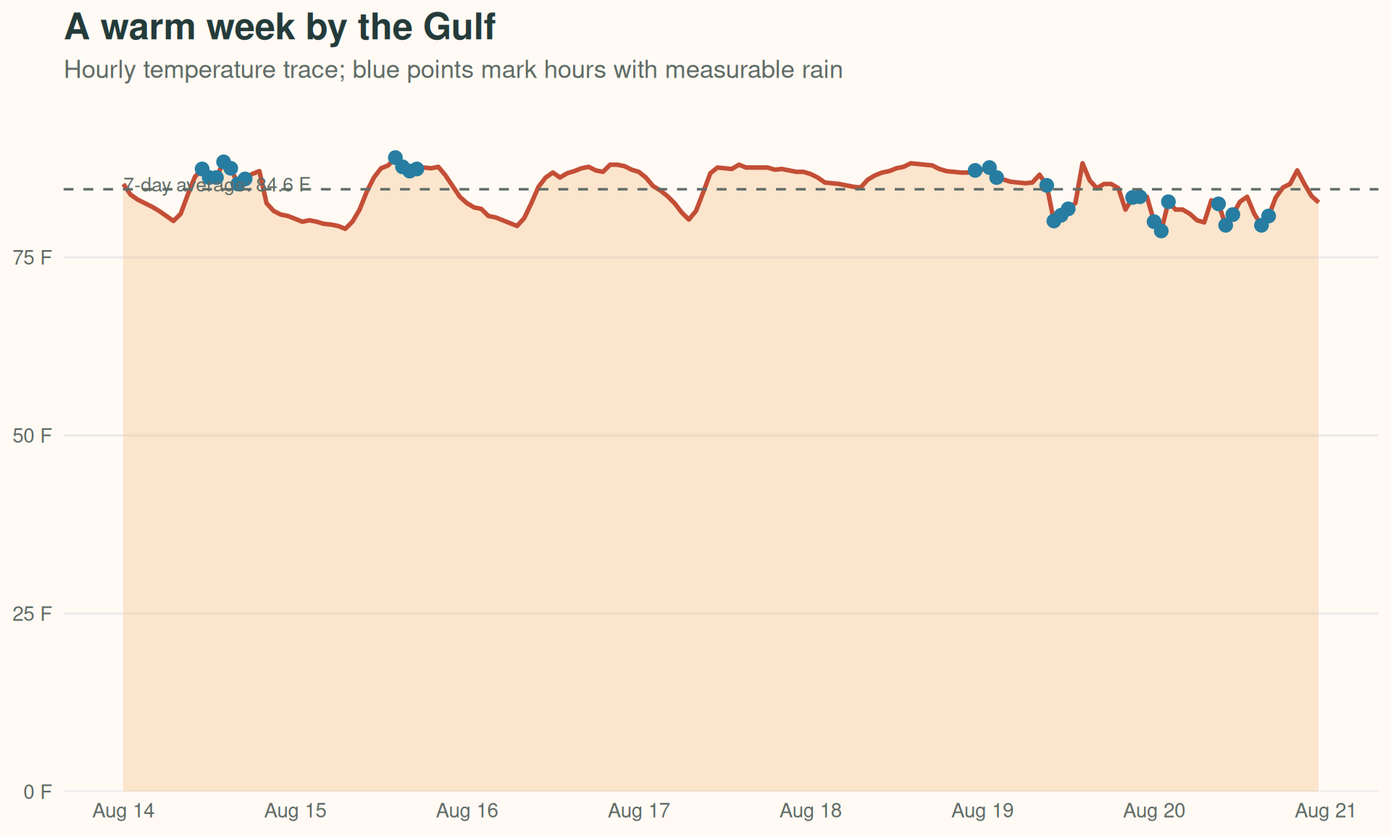
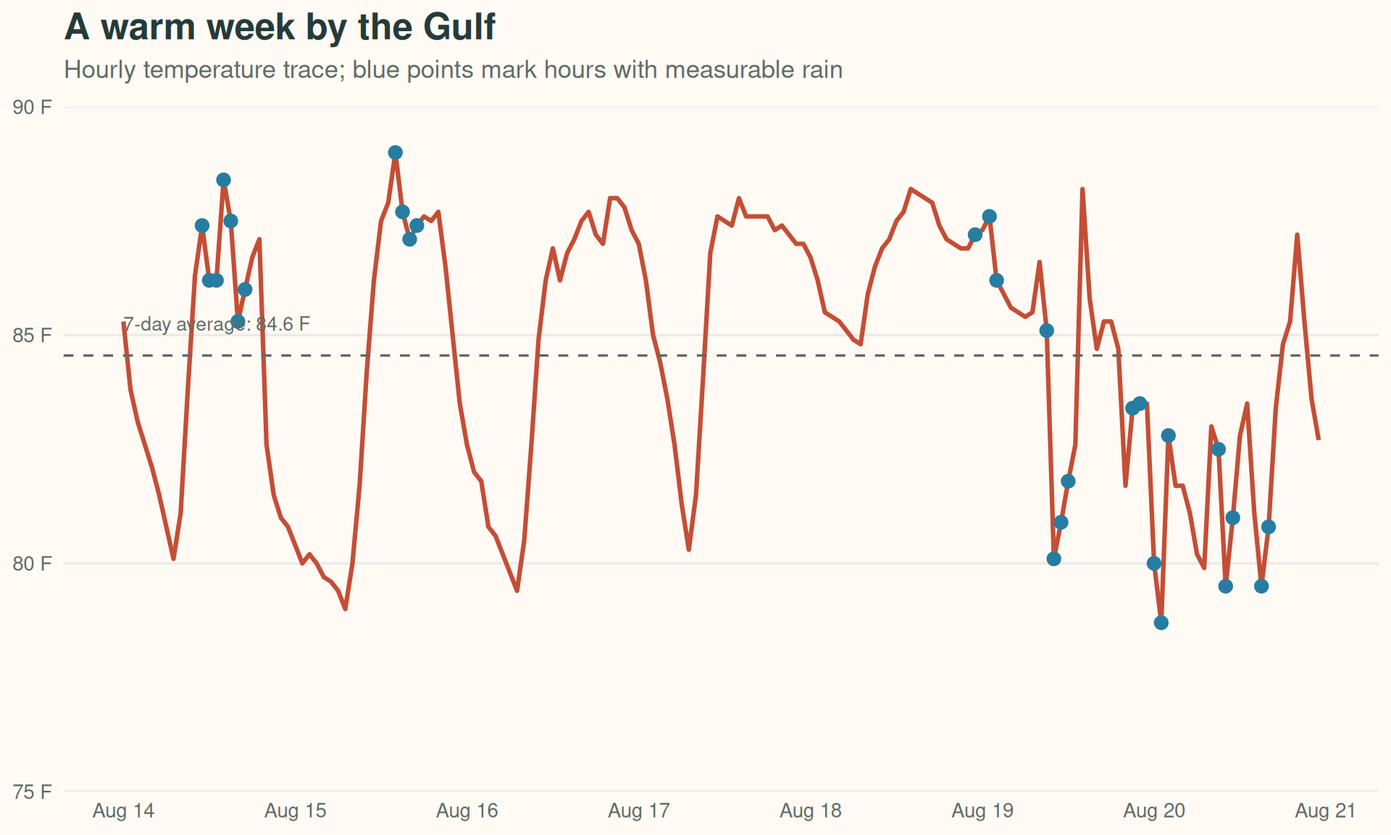
Built site for gh-pages

diff --git a/index.html b/index.html
@@ -122,34 +122,67 @@ pre > code.sourceCode > span > a:first-child::before { text-decoration: underlin
 <div class="code-copy-outer-scaffold"><div class="sourceCode cell-code" id="cb1"><pre class="sourceCode r code-with-copy"><code class="sourceCode r"><span id="cb1-1"><a href="#cb1-1" aria-hidden="true" tabindex="-1"></a><span class="fu">ggplot</span>(weather, <span class="fu">aes</span>(<span class="at">x =</span> time, <span class="at">y =</span> temperature_f)) <span class="sc">+</span></span>
 <span id="cb1-2"><a href="#cb1-2" aria-hidden="true" tabindex="-1"></a>  <span class="fu">geom_area</span>(<span class="at">fill =</span> <span class="st">"#f6b26b"</span>, <span class="at">alpha =</span> <span class="fl">0.28</span>) <span class="sc">+</span></span>
 <span id="cb1-3"><a href="#cb1-3" aria-hidden="true" tabindex="-1"></a>  <span class="fu">geom_line</span>(<span class="at">color =</span> <span class="st">"#c44e36"</span>, <span class="at">linewidth =</span> <span class="fl">1.1</span>) <span class="sc">+</span></span>
-<span id="cb1-4"><a href="#cb1-4" aria-hidden="true" tabindex="-1"></a>  <span class="fu">geom_point</span>(<span class="at">data =</span> <span class="fu">subset</span>(weather, rain), <span class="at">color =</span> <span class="st">"#277da1"</span>, <span class="at">size =</span> <span class="fl">2.8</span>) <span class="sc">+</span></span>
-<span id="cb1-5"><a href="#cb1-5" aria-hidden="true" tabindex="-1"></a>  <span class="fu">geom_hline</span>(<span class="at">yintercept =</span> <span class="fu">mean</span>(weather<span class="sc">$</span>temperature_f),</span>
-<span id="cb1-6"><a href="#cb1-6" aria-hidden="true" tabindex="-1"></a>             <span class="at">linetype =</span> <span class="st">"dashed"</span>, <span class="at">color =</span> <span class="st">"#5f6b66"</span>, <span class="at">linewidth =</span> <span class="fl">0.6</span>) <span class="sc">+</span></span>
-<span id="cb1-7"><a href="#cb1-7" aria-hidden="true" tabindex="-1"></a>  <span class="fu">annotate</span>(<span class="st">"text"</span>, <span class="at">x =</span> <span class="fu">min</span>(weather<span class="sc">$</span>time), <span class="at">y =</span> <span class="fu">mean</span>(weather<span class="sc">$</span>temperature_f) <span class="sc">+</span> <span class="fl">0.7</span>,</span>
-<span id="cb1-8"><a href="#cb1-8" aria-hidden="true" tabindex="-1"></a>           <span class="at">label =</span> <span class="fu">paste0</span>(<span class="st">"7-day average: "</span>, <span class="fu">round</span>(<span class="fu">mean</span>(weather<span class="sc">$</span>temperature_f), <span class="dv">1</span>), <span class="st">" F"</span>),</span>
-<span id="cb1-9"><a href="#cb1-9" aria-hidden="true" tabindex="-1"></a>           <span class="at">hjust =</span> <span class="dv">0</span>, <span class="at">color =</span> <span class="st">"#5f6b66"</span>, <span class="at">size =</span> <span class="fl">3.5</span>) <span class="sc">+</span></span>
-<span id="cb1-10"><a href="#cb1-10" aria-hidden="true" tabindex="-1"></a>  <span class="fu">scale_x_datetime</span>(<span class="at">date_breaks =</span> <span class="st">"1 day"</span>, <span class="at">date_labels =</span> <span class="st">"%b %d"</span>) <span class="sc">+</span></span>
-<span id="cb1-11"><a href="#cb1-11" aria-hidden="true" tabindex="-1"></a>  <span class="fu">scale_y_continuous</span>(<span class="at">labels =</span> \(x) <span class="fu">paste0</span>(x, <span class="st">" F"</span>),</span>
-<span id="cb1-12"><a href="#cb1-12" aria-hidden="true" tabindex="-1"></a>                     <span class="at">expand =</span> <span class="fu">expansion</span>(<span class="at">mult =</span> <span class="fu">c</span>(<span class="dv">0</span>, <span class="fl">0.08</span>))) <span class="sc">+</span></span>
-<span id="cb1-13"><a href="#cb1-13" aria-hidden="true" tabindex="-1"></a>  <span class="fu">labs</span>(<span class="at">x =</span> <span class="cn">NULL</span>, <span class="at">y =</span> <span class="cn">NULL</span>,</span>
-<span id="cb1-14"><a href="#cb1-14" aria-hidden="true" tabindex="-1"></a>       <span class="at">title =</span> <span class="st">"A warm week by the Gulf"</span>,</span>
-<span id="cb1-15"><a href="#cb1-15" aria-hidden="true" tabindex="-1"></a>       <span class="at">subtitle =</span> <span class="st">"Hourly temperature trace; blue points mark hours with measurable rain"</span>) <span class="sc">+</span></span>
-<span id="cb1-16"><a href="#cb1-16" aria-hidden="true" tabindex="-1"></a>  <span class="fu">theme_minimal</span>(<span class="at">base_size =</span> <span class="dv">13</span>) <span class="sc">+</span></span>
-<span id="cb1-17"><a href="#cb1-17" aria-hidden="true" tabindex="-1"></a>  <span class="fu">theme</span>(</span>
-<span id="cb1-18"><a href="#cb1-18" aria-hidden="true" tabindex="-1"></a>    <span class="at">plot.title =</span> <span class="fu">element_text</span>(<span class="at">face =</span> <span class="st">"bold"</span>, <span class="at">size =</span> <span class="dv">19</span>, <span class="at">color =</span> <span class="st">"#243b3a"</span>),</span>
-<span id="cb1-19"><a href="#cb1-19" aria-hidden="true" tabindex="-1"></a>    <span class="at">plot.subtitle =</span> <span class="fu">element_text</span>(<span class="at">color =</span> <span class="st">"#5f6b66"</span>, <span class="at">margin =</span> <span class="fu">margin</span>(<span class="at">b =</span> <span class="dv">12</span>)),</span>
-<span id="cb1-20"><a href="#cb1-20" aria-hidden="true" tabindex="-1"></a>    <span class="at">panel.grid.minor =</span> <span class="fu">element_blank</span>(),</span>
-<span id="cb1-21"><a href="#cb1-21" aria-hidden="true" tabindex="-1"></a>    <span class="at">panel.grid.major.x =</span> <span class="fu">element_blank</span>(),</span>
-<span id="cb1-22"><a href="#cb1-22" aria-hidden="true" tabindex="-1"></a>    <span class="at">axis.text =</span> <span class="fu">element_text</span>(<span class="at">color =</span> <span class="st">"#5f6b66"</span>),</span>
-<span id="cb1-23"><a href="#cb1-23" aria-hidden="true" tabindex="-1"></a>    <span class="at">plot.background =</span> <span class="fu">element_rect</span>(<span class="at">fill =</span> <span class="st">"#fffaf4"</span>, <span class="at">color =</span> <span class="cn">NA</span>),</span>
-<span id="cb1-24"><a href="#cb1-24" aria-hidden="true" tabindex="-1"></a>    <span class="at">panel.background =</span> <span class="fu">element_rect</span>(<span class="at">fill =</span> <span class="st">"#fffaf4"</span>, <span class="at">color =</span> <span class="cn">NA</span>)</span>
-<span id="cb1-25"><a href="#cb1-25" aria-hidden="true" tabindex="-1"></a>  )</span></code></pre></div><button title="Copy to Clipboard" class="code-copy-button"><i class="bi"></i></button></div>
+<span id="cb1-4"><a href="#cb1-4" aria-hidden="true" tabindex="-1"></a>  <span class="fu">geom_hline</span>(<span class="at">yintercept =</span> <span class="fu">mean</span>(weather<span class="sc">$</span>temperature_f),</span>
+<span id="cb1-5"><a href="#cb1-5" aria-hidden="true" tabindex="-1"></a>             <span class="at">linetype =</span> <span class="st">"dashed"</span>, <span class="at">color =</span> <span class="st">"#5f6b66"</span>, <span class="at">linewidth =</span> <span class="fl">0.6</span>) <span class="sc">+</span></span>
+<span id="cb1-6"><a href="#cb1-6" aria-hidden="true" tabindex="-1"></a>  <span class="fu">annotate</span>(<span class="st">"text"</span>, <span class="at">x =</span> <span class="fu">min</span>(weather<span class="sc">$</span>time), <span class="at">y =</span> <span class="fu">mean</span>(weather<span class="sc">$</span>temperature_f) <span class="sc">+</span> <span class="fl">0.7</span>,</span>
+<span id="cb1-7"><a href="#cb1-7" aria-hidden="true" tabindex="-1"></a>           <span class="at">label =</span> <span class="fu">paste0</span>(<span class="st">"7-day average: "</span>, <span class="fu">round</span>(<span class="fu">mean</span>(weather<span class="sc">$</span>temperature_f), <span class="dv">1</span>), <span class="st">" F"</span>),</span>
+<span id="cb1-8"><a href="#cb1-8" aria-hidden="true" tabindex="-1"></a>           <span class="at">hjust =</span> <span class="dv">0</span>, <span class="at">color =</span> <span class="st">"#5f6b66"</span>, <span class="at">size =</span> <span class="fl">3.5</span>) <span class="sc">+</span></span>
+<span id="cb1-9"><a href="#cb1-9" aria-hidden="true" tabindex="-1"></a>  <span class="fu">scale_x_datetime</span>(<span class="at">date_breaks =</span> <span class="st">"1 day"</span>, <span class="at">date_labels =</span> <span class="st">"%b %d"</span>) <span class="sc">+</span></span>
+<span id="cb1-10"><a href="#cb1-10" aria-hidden="true" tabindex="-1"></a>  <span class="fu">scale_y_continuous</span>(<span class="at">limits =</span> <span class="fu">c</span>(<span class="dv">75</span>, <span class="dv">90</span>), <span class="at">breaks =</span> <span class="fu">seq</span>(<span class="dv">75</span>, <span class="dv">90</span>, <span class="at">by =</span> <span class="dv">5</span>),</span>
+<span id="cb1-11"><a href="#cb1-11" aria-hidden="true" tabindex="-1"></a>                     <span class="at">labels =</span> \(x) <span class="fu">paste0</span>(x, <span class="st">" F"</span>), <span class="at">expand =</span> <span class="fu">c</span>(<span class="dv">0</span>, <span class="dv">0</span>)) <span class="sc">+</span></span>
+<span id="cb1-12"><a href="#cb1-12" aria-hidden="true" tabindex="-1"></a>  <span class="fu">labs</span>(<span class="at">x =</span> <span class="cn">NULL</span>, <span class="at">y =</span> <span class="cn">NULL</span>,</span>
+<span id="cb1-13"><a href="#cb1-13" aria-hidden="true" tabindex="-1"></a>       <span class="at">title =</span> <span class="st">"A warm week by the Gulf"</span>,</span>
+<span id="cb1-14"><a href="#cb1-14" aria-hidden="true" tabindex="-1"></a>       <span class="at">subtitle =</span> <span class="st">"Hourly temperature trace in Fahrenheit"</span>) <span class="sc">+</span></span>
+<span id="cb1-15"><a href="#cb1-15" aria-hidden="true" tabindex="-1"></a>  <span class="fu">theme_minimal</span>(<span class="at">base_size =</span> <span class="dv">13</span>) <span class="sc">+</span></span>
+<span id="cb1-16"><a href="#cb1-16" aria-hidden="true" tabindex="-1"></a>  <span class="fu">theme</span>(</span>
+<span id="cb1-17"><a href="#cb1-17" aria-hidden="true" tabindex="-1"></a>    <span class="at">plot.title =</span> <span class="fu">element_text</span>(<span class="at">face =</span> <span class="st">"bold"</span>, <span class="at">size =</span> <span class="dv">19</span>, <span class="at">color =</span> <span class="st">"#243b3a"</span>),</span>
+<span id="cb1-18"><a href="#cb1-18" aria-hidden="true" tabindex="-1"></a>    <span class="at">plot.subtitle =</span> <span class="fu">element_text</span>(<span class="at">color =</span> <span class="st">"#5f6b66"</span>, <span class="at">margin =</span> <span class="fu">margin</span>(<span class="at">b =</span> <span class="dv">12</span>)),</span>
+<span id="cb1-19"><a href="#cb1-19" aria-hidden="true" tabindex="-1"></a>    <span class="at">panel.grid.minor =</span> <span class="fu">element_blank</span>(),</span>
+<span id="cb1-20"><a href="#cb1-20" aria-hidden="true" tabindex="-1"></a>    <span class="at">panel.grid.major.x =</span> <span class="fu">element_blank</span>(),</span>
+<span id="cb1-21"><a href="#cb1-21" aria-hidden="true" tabindex="-1"></a>    <span class="at">axis.text =</span> <span class="fu">element_text</span>(<span class="at">color =</span> <span class="st">"#5f6b66"</span>),</span>
+<span id="cb1-22"><a href="#cb1-22" aria-hidden="true" tabindex="-1"></a>    <span class="at">plot.background =</span> <span class="fu">element_rect</span>(<span class="at">fill =</span> <span class="st">"#fffaf4"</span>, <span class="at">color =</span> <span class="cn">NA</span>),</span>
+<span id="cb1-23"><a href="#cb1-23" aria-hidden="true" tabindex="-1"></a>    <span class="at">panel.background =</span> <span class="fu">element_rect</span>(<span class="at">fill =</span> <span class="st">"#fffaf4"</span>, <span class="at">color =</span> <span class="cn">NA</span>)</span>
+<span id="cb1-24"><a href="#cb1-24" aria-hidden="true" tabindex="-1"></a>  )</span></code></pre></div><button title="Copy to Clipboard" class="code-copy-button"><i class="bi"></i></button></div>
+</details>
+<div class="cell-output cell-output-stderr">
+<pre><code>Warning in max(ids, na.rm = TRUE): no non-missing arguments to max; returning
+-Inf</code></pre>
+</div>
+<div class="cell-output-display">
+<div class="quarto-figure quarto-figure-center">
+<figure class="figure">
+<p><img src="sarasota-weather_files/figure-html/temperature-plot-1.png" class="img-fluid figure-img" style="width:100.0%"></p>
+<figcaption>Hourly temperature trace across the week.</figcaption>
+</figure>
+</div>
+</div>
+</div>
+<div class="cell">
+<details class="code-fold">
+<summary>Code</summary>
+<div class="code-copy-outer-scaffold"><div class="sourceCode cell-code" id="cb3"><pre class="sourceCode r code-with-copy"><code class="sourceCode r"><span id="cb3-1"><a href="#cb3-1" aria-hidden="true" tabindex="-1"></a><span class="fu">ggplot</span>(weather, <span class="fu">aes</span>(<span class="at">x =</span> time, <span class="at">y =</span> precipitation_inches)) <span class="sc">+</span></span>
+<span id="cb3-2"><a href="#cb3-2" aria-hidden="true" tabindex="-1"></a>  <span class="fu">geom_col</span>(<span class="at">fill =</span> <span class="st">"#277da1"</span>) <span class="sc">+</span></span>
+<span id="cb3-3"><a href="#cb3-3" aria-hidden="true" tabindex="-1"></a>  <span class="fu">scale_x_datetime</span>(<span class="at">date_breaks =</span> <span class="st">"1 day"</span>, <span class="at">date_labels =</span> <span class="st">"%b %d"</span>) <span class="sc">+</span></span>
+<span id="cb3-4"><a href="#cb3-4" aria-hidden="true" tabindex="-1"></a>  <span class="fu">scale_y_continuous</span>(<span class="at">labels =</span> \(x) <span class="fu">paste0</span>(x, <span class="st">" in"</span>)) <span class="sc">+</span></span>
+<span id="cb3-5"><a href="#cb3-5" aria-hidden="true" tabindex="-1"></a>  <span class="fu">labs</span>(<span class="at">x =</span> <span class="cn">NULL</span>, <span class="at">y =</span> <span class="cn">NULL</span>,</span>
+<span id="cb3-6"><a href="#cb3-6" aria-hidden="true" tabindex="-1"></a>       <span class="at">title =</span> <span class="st">"Hourly Precipitation"</span>,</span>
+<span id="cb3-7"><a href="#cb3-7" aria-hidden="true" tabindex="-1"></a>       <span class="at">subtitle =</span> <span class="st">"Rainfall measured in inches"</span>) <span class="sc">+</span></span>
+<span id="cb3-8"><a href="#cb3-8" aria-hidden="true" tabindex="-1"></a>  <span class="fu">theme_minimal</span>(<span class="at">base_size =</span> <span class="dv">13</span>) <span class="sc">+</span></span>
+<span id="cb3-9"><a href="#cb3-9" aria-hidden="true" tabindex="-1"></a>  <span class="fu">theme</span>(</span>
+<span id="cb3-10"><a href="#cb3-10" aria-hidden="true" tabindex="-1"></a>    <span class="at">plot.title =</span> <span class="fu">element_text</span>(<span class="at">face =</span> <span class="st">"bold"</span>, <span class="at">size =</span> <span class="dv">16</span>, <span class="at">color =</span> <span class="st">"#243b3a"</span>),</span>
+<span id="cb3-11"><a href="#cb3-11" aria-hidden="true" tabindex="-1"></a>    <span class="at">plot.subtitle =</span> <span class="fu">element_text</span>(<span class="at">color =</span> <span class="st">"#5f6b66"</span>, <span class="at">margin =</span> <span class="fu">margin</span>(<span class="at">b =</span> <span class="dv">12</span>)),</span>
+<span id="cb3-12"><a href="#cb3-12" aria-hidden="true" tabindex="-1"></a>    <span class="at">panel.grid.minor =</span> <span class="fu">element_blank</span>(),</span>
+<span id="cb3-13"><a href="#cb3-13" aria-hidden="true" tabindex="-1"></a>    <span class="at">panel.grid.major.x =</span> <span class="fu">element_blank</span>(),</span>
+<span id="cb3-14"><a href="#cb3-14" aria-hidden="true" tabindex="-1"></a>    <span class="at">axis.text =</span> <span class="fu">element_text</span>(<span class="at">color =</span> <span class="st">"#5f6b66"</span>),</span>
+<span id="cb3-15"><a href="#cb3-15" aria-hidden="true" tabindex="-1"></a>    <span class="at">plot.background =</span> <span class="fu">element_rect</span>(<span class="at">fill =</span> <span class="st">"#fffaf4"</span>, <span class="at">color =</span> <span class="cn">NA</span>),</span>
+<span id="cb3-16"><a href="#cb3-16" aria-hidden="true" tabindex="-1"></a>    <span class="at">panel.background =</span> <span class="fu">element_rect</span>(<span class="at">fill =</span> <span class="st">"#fffaf4"</span>, <span class="at">color =</span> <span class="cn">NA</span>)</span>
+<span id="cb3-17"><a href="#cb3-17" aria-hidden="true" tabindex="-1"></a>  )</span></code></pre></div><button title="Copy to Clipboard" class="code-copy-button"><i class="bi"></i></button></div>
 </details>
 <div class="cell-output-display">
 <div class="quarto-figure quarto-figure-center">
 <figure class="figure">
-<p><img src="sarasota-weather_files/figure-html/weather-plot-1.png" class="img-fluid figure-img" style="width:100.0%"></p>
-<figcaption>Hourly temperature, with precipitation shown along the baseline.</figcaption>
+<p><img src="sarasota-weather_files/figure-html/rainfall-plot-1.png" class="img-fluid figure-img" style="width:100.0%"></p>
+<figcaption>Hourly rainfall precipitation in inches.</figcaption>
 </figure>
 </div>
 </div>

diff --git a/sarasota-weather.html b/sarasota-weather.html
@@ -122,34 +122,67 @@ pre > code.sourceCode > span > a:first-child::before { text-decoration: underlin
 <div class="code-copy-outer-scaffold"><div class="sourceCode cell-code" id="cb1"><pre class="sourceCode r code-with-copy"><code class="sourceCode r"><span id="cb1-1"><a href="#cb1-1" aria-hidden="true" tabindex="-1"></a><span class="fu">ggplot</span>(weather, <span class="fu">aes</span>(<span class="at">x =</span> time, <span class="at">y =</span> temperature_f)) <span class="sc">+</span></span>
 <span id="cb1-2"><a href="#cb1-2" aria-hidden="true" tabindex="-1"></a>  <span class="fu">geom_area</span>(<span class="at">fill =</span> <span class="st">"#f6b26b"</span>, <span class="at">alpha =</span> <span class="fl">0.28</span>) <span class="sc">+</span></span>
 <span id="cb1-3"><a href="#cb1-3" aria-hidden="true" tabindex="-1"></a>  <span class="fu">geom_line</span>(<span class="at">color =</span> <span class="st">"#c44e36"</span>, <span class="at">linewidth =</span> <span class="fl">1.1</span>) <span class="sc">+</span></span>
-<span id="cb1-4"><a href="#cb1-4" aria-hidden="true" tabindex="-1"></a>  <span class="fu">geom_point</span>(<span class="at">data =</span> <span class="fu">subset</span>(weather, rain), <span class="at">color =</span> <span class="st">"#277da1"</span>, <span class="at">size =</span> <span class="fl">2.8</span>) <span class="sc">+</span></span>
-<span id="cb1-5"><a href="#cb1-5" aria-hidden="true" tabindex="-1"></a>  <span class="fu">geom_hline</span>(<span class="at">yintercept =</span> <span class="fu">mean</span>(weather<span class="sc">$</span>temperature_f),</span>
-<span id="cb1-6"><a href="#cb1-6" aria-hidden="true" tabindex="-1"></a>             <span class="at">linetype =</span> <span class="st">"dashed"</span>, <span class="at">color =</span> <span class="st">"#5f6b66"</span>, <span class="at">linewidth =</span> <span class="fl">0.6</span>) <span class="sc">+</span></span>
-<span id="cb1-7"><a href="#cb1-7" aria-hidden="true" tabindex="-1"></a>  <span class="fu">annotate</span>(<span class="st">"text"</span>, <span class="at">x =</span> <span class="fu">min</span>(weather<span class="sc">$</span>time), <span class="at">y =</span> <span class="fu">mean</span>(weather<span class="sc">$</span>temperature_f) <span class="sc">+</span> <span class="fl">0.7</span>,</span>
-<span id="cb1-8"><a href="#cb1-8" aria-hidden="true" tabindex="-1"></a>           <span class="at">label =</span> <span class="fu">paste0</span>(<span class="st">"7-day average: "</span>, <span class="fu">round</span>(<span class="fu">mean</span>(weather<span class="sc">$</span>temperature_f), <span class="dv">1</span>), <span class="st">" F"</span>),</span>
-<span id="cb1-9"><a href="#cb1-9" aria-hidden="true" tabindex="-1"></a>           <span class="at">hjust =</span> <span class="dv">0</span>, <span class="at">color =</span> <span class="st">"#5f6b66"</span>, <span class="at">size =</span> <span class="fl">3.5</span>) <span class="sc">+</span></span>
-<span id="cb1-10"><a href="#cb1-10" aria-hidden="true" tabindex="-1"></a>  <span class="fu">scale_x_datetime</span>(<span class="at">date_breaks =</span> <span class="st">"1 day"</span>, <span class="at">date_labels =</span> <span class="st">"%b %d"</span>) <span class="sc">+</span></span>
-<span id="cb1-11"><a href="#cb1-11" aria-hidden="true" tabindex="-1"></a>  <span class="fu">scale_y_continuous</span>(<span class="at">labels =</span> \(x) <span class="fu">paste0</span>(x, <span class="st">" F"</span>),</span>
-<span id="cb1-12"><a href="#cb1-12" aria-hidden="true" tabindex="-1"></a>                     <span class="at">expand =</span> <span class="fu">expansion</span>(<span class="at">mult =</span> <span class="fu">c</span>(<span class="dv">0</span>, <span class="fl">0.08</span>))) <span class="sc">+</span></span>
-<span id="cb1-13"><a href="#cb1-13" aria-hidden="true" tabindex="-1"></a>  <span class="fu">labs</span>(<span class="at">x =</span> <span class="cn">NULL</span>, <span class="at">y =</span> <span class="cn">NULL</span>,</span>
-<span id="cb1-14"><a href="#cb1-14" aria-hidden="true" tabindex="-1"></a>       <span class="at">title =</span> <span class="st">"A warm week by the Gulf"</span>,</span>
-<span id="cb1-15"><a href="#cb1-15" aria-hidden="true" tabindex="-1"></a>       <span class="at">subtitle =</span> <span class="st">"Hourly temperature trace; blue points mark hours with measurable rain"</span>) <span class="sc">+</span></span>
-<span id="cb1-16"><a href="#cb1-16" aria-hidden="true" tabindex="-1"></a>  <span class="fu">theme_minimal</span>(<span class="at">base_size =</span> <span class="dv">13</span>) <span class="sc">+</span></span>
-<span id="cb1-17"><a href="#cb1-17" aria-hidden="true" tabindex="-1"></a>  <span class="fu">theme</span>(</span>
-<span id="cb1-18"><a href="#cb1-18" aria-hidden="true" tabindex="-1"></a>    <span class="at">plot.title =</span> <span class="fu">element_text</span>(<span class="at">face =</span> <span class="st">"bold"</span>, <span class="at">size =</span> <span class="dv">19</span>, <span class="at">color =</span> <span class="st">"#243b3a"</span>),</span>
-<span id="cb1-19"><a href="#cb1-19" aria-hidden="true" tabindex="-1"></a>    <span class="at">plot.subtitle =</span> <span class="fu">element_text</span>(<span class="at">color =</span> <span class="st">"#5f6b66"</span>, <span class="at">margin =</span> <span class="fu">margin</span>(<span class="at">b =</span> <span class="dv">12</span>)),</span>
-<span id="cb1-20"><a href="#cb1-20" aria-hidden="true" tabindex="-1"></a>    <span class="at">panel.grid.minor =</span> <span class="fu">element_blank</span>(),</span>
-<span id="cb1-21"><a href="#cb1-21" aria-hidden="true" tabindex="-1"></a>    <span class="at">panel.grid.major.x =</span> <span class="fu">element_blank</span>(),</span>
-<span id="cb1-22"><a href="#cb1-22" aria-hidden="true" tabindex="-1"></a>    <span class="at">axis.text =</span> <span class="fu">element_text</span>(<span class="at">color =</span> <span class="st">"#5f6b66"</span>),</span>
-<span id="cb1-23"><a href="#cb1-23" aria-hidden="true" tabindex="-1"></a>    <span class="at">plot.background =</span> <span class="fu">element_rect</span>(<span class="at">fill =</span> <span class="st">"#fffaf4"</span>, <span class="at">color =</span> <span class="cn">NA</span>),</span>
-<span id="cb1-24"><a href="#cb1-24" aria-hidden="true" tabindex="-1"></a>    <span class="at">panel.background =</span> <span class="fu">element_rect</span>(<span class="at">fill =</span> <span class="st">"#fffaf4"</span>, <span class="at">color =</span> <span class="cn">NA</span>)</span>
-<span id="cb1-25"><a href="#cb1-25" aria-hidden="true" tabindex="-1"></a>  )</span></code></pre></div><button title="Copy to Clipboard" class="code-copy-button"><i class="bi"></i></button></div>
+<span id="cb1-4"><a href="#cb1-4" aria-hidden="true" tabindex="-1"></a>  <span class="fu">geom_hline</span>(<span class="at">yintercept =</span> <span class="fu">mean</span>(weather<span class="sc">$</span>temperature_f),</span>
+<span id="cb1-5"><a href="#cb1-5" aria-hidden="true" tabindex="-1"></a>             <span class="at">linetype =</span> <span class="st">"dashed"</span>, <span class="at">color =</span> <span class="st">"#5f6b66"</span>, <span class="at">linewidth =</span> <span class="fl">0.6</span>) <span class="sc">+</span></span>
+<span id="cb1-6"><a href="#cb1-6" aria-hidden="true" tabindex="-1"></a>  <span class="fu">annotate</span>(<span class="st">"text"</span>, <span class="at">x =</span> <span class="fu">min</span>(weather<span class="sc">$</span>time), <span class="at">y =</span> <span class="fu">mean</span>(weather<span class="sc">$</span>temperature_f) <span class="sc">+</span> <span class="fl">0.7</span>,</span>
+<span id="cb1-7"><a href="#cb1-7" aria-hidden="true" tabindex="-1"></a>           <span class="at">label =</span> <span class="fu">paste0</span>(<span class="st">"7-day average: "</span>, <span class="fu">round</span>(<span class="fu">mean</span>(weather<span class="sc">$</span>temperature_f), <span class="dv">1</span>), <span class="st">" F"</span>),</span>
+<span id="cb1-8"><a href="#cb1-8" aria-hidden="true" tabindex="-1"></a>           <span class="at">hjust =</span> <span class="dv">0</span>, <span class="at">color =</span> <span class="st">"#5f6b66"</span>, <span class="at">size =</span> <span class="fl">3.5</span>) <span class="sc">+</span></span>
+<span id="cb1-9"><a href="#cb1-9" aria-hidden="true" tabindex="-1"></a>  <span class="fu">scale_x_datetime</span>(<span class="at">date_breaks =</span> <span class="st">"1 day"</span>, <span class="at">date_labels =</span> <span class="st">"%b %d"</span>) <span class="sc">+</span></span>
+<span id="cb1-10"><a href="#cb1-10" aria-hidden="true" tabindex="-1"></a>  <span class="fu">scale_y_continuous</span>(<span class="at">limits =</span> <span class="fu">c</span>(<span class="dv">75</span>, <span class="dv">90</span>), <span class="at">breaks =</span> <span class="fu">seq</span>(<span class="dv">75</span>, <span class="dv">90</span>, <span class="at">by =</span> <span class="dv">5</span>),</span>
+<span id="cb1-11"><a href="#cb1-11" aria-hidden="true" tabindex="-1"></a>                     <span class="at">labels =</span> \(x) <span class="fu">paste0</span>(x, <span class="st">" F"</span>), <span class="at">expand =</span> <span class="fu">c</span>(<span class="dv">0</span>, <span class="dv">0</span>)) <span class="sc">+</span></span>
+<span id="cb1-12"><a href="#cb1-12" aria-hidden="true" tabindex="-1"></a>  <span class="fu">labs</span>(<span class="at">x =</span> <span class="cn">NULL</span>, <span class="at">y =</span> <span class="cn">NULL</span>,</span>
+<span id="cb1-13"><a href="#cb1-13" aria-hidden="true" tabindex="-1"></a>       <span class="at">title =</span> <span class="st">"A warm week by the Gulf"</span>,</span>
+<span id="cb1-14"><a href="#cb1-14" aria-hidden="true" tabindex="-1"></a>       <span class="at">subtitle =</span> <span class="st">"Hourly temperature trace in Fahrenheit"</span>) <span class="sc">+</span></span>
+<span id="cb1-15"><a href="#cb1-15" aria-hidden="true" tabindex="-1"></a>  <span class="fu">theme_minimal</span>(<span class="at">base_size =</span> <span class="dv">13</span>) <span class="sc">+</span></span>
+<span id="cb1-16"><a href="#cb1-16" aria-hidden="true" tabindex="-1"></a>  <span class="fu">theme</span>(</span>
+<span id="cb1-17"><a href="#cb1-17" aria-hidden="true" tabindex="-1"></a>    <span class="at">plot.title =</span> <span class="fu">element_text</span>(<span class="at">face =</span> <span class="st">"bold"</span>, <span class="at">size =</span> <span class="dv">19</span>, <span class="at">color =</span> <span class="st">"#243b3a"</span>),</span>
+<span id="cb1-18"><a href="#cb1-18" aria-hidden="true" tabindex="-1"></a>    <span class="at">plot.subtitle =</span> <span class="fu">element_text</span>(<span class="at">color =</span> <span class="st">"#5f6b66"</span>, <span class="at">margin =</span> <span class="fu">margin</span>(<span class="at">b =</span> <span class="dv">12</span>)),</span>
+<span id="cb1-19"><a href="#cb1-19" aria-hidden="true" tabindex="-1"></a>    <span class="at">panel.grid.minor =</span> <span class="fu">element_blank</span>(),</span>
+<span id="cb1-20"><a href="#cb1-20" aria-hidden="true" tabindex="-1"></a>    <span class="at">panel.grid.major.x =</span> <span class="fu">element_blank</span>(),</span>
+<span id="cb1-21"><a href="#cb1-21" aria-hidden="true" tabindex="-1"></a>    <span class="at">axis.text =</span> <span class="fu">element_text</span>(<span class="at">color =</span> <span class="st">"#5f6b66"</span>),</span>
+<span id="cb1-22"><a href="#cb1-22" aria-hidden="true" tabindex="-1"></a>    <span class="at">plot.background =</span> <span class="fu">element_rect</span>(<span class="at">fill =</span> <span class="st">"#fffaf4"</span>, <span class="at">color =</span> <span class="cn">NA</span>),</span>
+<span id="cb1-23"><a href="#cb1-23" aria-hidden="true" tabindex="-1"></a>    <span class="at">panel.background =</span> <span class="fu">element_rect</span>(<span class="at">fill =</span> <span class="st">"#fffaf4"</span>, <span class="at">color =</span> <span class="cn">NA</span>)</span>
+<span id="cb1-24"><a href="#cb1-24" aria-hidden="true" tabindex="-1"></a>  )</span></code></pre></div><button title="Copy to Clipboard" class="code-copy-button"><i class="bi"></i></button></div>
+</details>
+<div class="cell-output cell-output-stderr">
+<pre><code>Warning in max(ids, na.rm = TRUE): no non-missing arguments to max; returning
+-Inf</code></pre>
+</div>
+<div class="cell-output-display">
+<div class="quarto-figure quarto-figure-center">
+<figure class="figure">
+<p><img src="sarasota-weather_files/figure-html/temperature-plot-1.png" class="img-fluid figure-img" style="width:100.0%"></p>
+<figcaption>Hourly temperature trace across the week.</figcaption>
+</figure>
+</div>
+</div>
+</div>
+<div class="cell">
+<details class="code-fold">
+<summary>Code</summary>
+<div class="code-copy-outer-scaffold"><div class="sourceCode cell-code" id="cb3"><pre class="sourceCode r code-with-copy"><code class="sourceCode r"><span id="cb3-1"><a href="#cb3-1" aria-hidden="true" tabindex="-1"></a><span class="fu">ggplot</span>(weather, <span class="fu">aes</span>(<span class="at">x =</span> time, <span class="at">y =</span> precipitation_inches)) <span class="sc">+</span></span>
+<span id="cb3-2"><a href="#cb3-2" aria-hidden="true" tabindex="-1"></a>  <span class="fu">geom_col</span>(<span class="at">fill =</span> <span class="st">"#277da1"</span>) <span class="sc">+</span></span>
+<span id="cb3-3"><a href="#cb3-3" aria-hidden="true" tabindex="-1"></a>  <span class="fu">scale_x_datetime</span>(<span class="at">date_breaks =</span> <span class="st">"1 day"</span>, <span class="at">date_labels =</span> <span class="st">"%b %d"</span>) <span class="sc">+</span></span>
+<span id="cb3-4"><a href="#cb3-4" aria-hidden="true" tabindex="-1"></a>  <span class="fu">scale_y_continuous</span>(<span class="at">labels =</span> \(x) <span class="fu">paste0</span>(x, <span class="st">" in"</span>)) <span class="sc">+</span></span>
+<span id="cb3-5"><a href="#cb3-5" aria-hidden="true" tabindex="-1"></a>  <span class="fu">labs</span>(<span class="at">x =</span> <span class="cn">NULL</span>, <span class="at">y =</span> <span class="cn">NULL</span>,</span>
+<span id="cb3-6"><a href="#cb3-6" aria-hidden="true" tabindex="-1"></a>       <span class="at">title =</span> <span class="st">"Hourly Precipitation"</span>,</span>
+<span id="cb3-7"><a href="#cb3-7" aria-hidden="true" tabindex="-1"></a>       <span class="at">subtitle =</span> <span class="st">"Rainfall measured in inches"</span>) <span class="sc">+</span></span>
+<span id="cb3-8"><a href="#cb3-8" aria-hidden="true" tabindex="-1"></a>  <span class="fu">theme_minimal</span>(<span class="at">base_size =</span> <span class="dv">13</span>) <span class="sc">+</span></span>
+<span id="cb3-9"><a href="#cb3-9" aria-hidden="true" tabindex="-1"></a>  <span class="fu">theme</span>(</span>
+<span id="cb3-10"><a href="#cb3-10" aria-hidden="true" tabindex="-1"></a>    <span class="at">plot.title =</span> <span class="fu">element_text</span>(<span class="at">face =</span> <span class="st">"bold"</span>, <span class="at">size =</span> <span class="dv">16</span>, <span class="at">color =</span> <span class="st">"#243b3a"</span>),</span>
+<span id="cb3-11"><a href="#cb3-11" aria-hidden="true" tabindex="-1"></a>    <span class="at">plot.subtitle =</span> <span class="fu">element_text</span>(<span class="at">color =</span> <span class="st">"#5f6b66"</span>, <span class="at">margin =</span> <span class="fu">margin</span>(<span class="at">b =</span> <span class="dv">12</span>)),</span>
+<span id="cb3-12"><a href="#cb3-12" aria-hidden="true" tabindex="-1"></a>    <span class="at">panel.grid.minor =</span> <span class="fu">element_blank</span>(),</span>
+<span id="cb3-13"><a href="#cb3-13" aria-hidden="true" tabindex="-1"></a>    <span class="at">panel.grid.major.x =</span> <span class="fu">element_blank</span>(),</span>
+<span id="cb3-14"><a href="#cb3-14" aria-hidden="true" tabindex="-1"></a>    <span class="at">axis.text =</span> <span class="fu">element_text</span>(<span class="at">color =</span> <span class="st">"#5f6b66"</span>),</span>
+<span id="cb3-15"><a href="#cb3-15" aria-hidden="true" tabindex="-1"></a>    <span class="at">plot.background =</span> <span class="fu">element_rect</span>(<span class="at">fill =</span> <span class="st">"#fffaf4"</span>, <span class="at">color =</span> <span class="cn">NA</span>),</span>
+<span id="cb3-16"><a href="#cb3-16" aria-hidden="true" tabindex="-1"></a>    <span class="at">panel.background =</span> <span class="fu">element_rect</span>(<span class="at">fill =</span> <span class="st">"#fffaf4"</span>, <span class="at">color =</span> <span class="cn">NA</span>)</span>
+<span id="cb3-17"><a href="#cb3-17" aria-hidden="true" tabindex="-1"></a>  )</span></code></pre></div><button title="Copy to Clipboard" class="code-copy-button"><i class="bi"></i></button></div>
 </details>
 <div class="cell-output-display">
 <div class="quarto-figure quarto-figure-center">
 <figure class="figure">
-<p><img src="sarasota-weather_files/figure-html/weather-plot-1.png" class="img-fluid figure-img" style="width:100.0%"></p>
-<figcaption>Hourly temperature, with precipitation shown along the baseline.</figcaption>
+<p><img src="sarasota-weather_files/figure-html/rainfall-plot-1.png" class="img-fluid figure-img" style="width:100.0%"></p>
+<figcaption>Hourly rainfall precipitation in inches.</figcaption>
 </figure>
 </div>
 </div>
